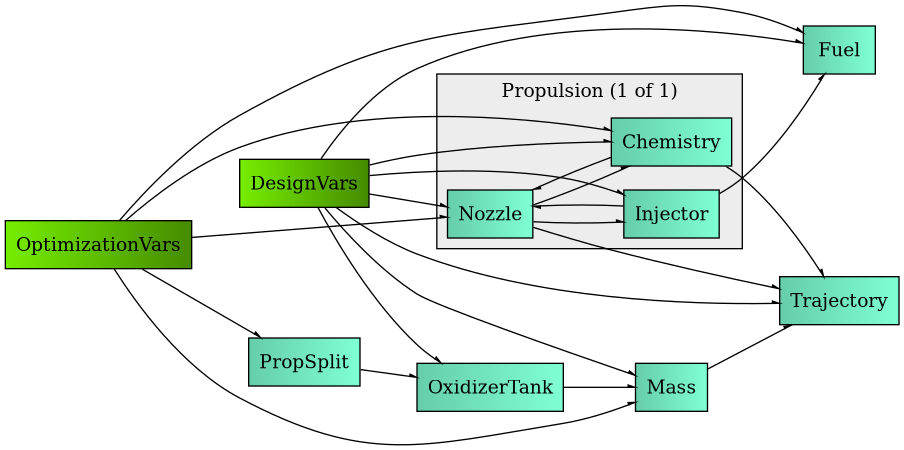
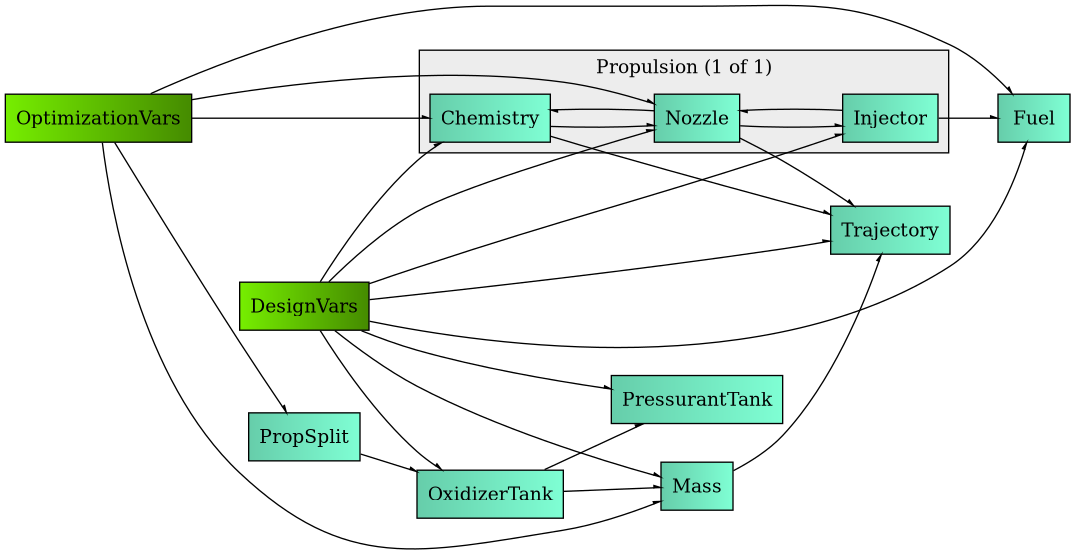
Early version of pressurant tank component

diff --git a/modules/BEARS_Rocket/group_prop.py b/modules/BEARS_Rocket/group_prop.py
@@ -4,12 +4,13 @@ import openmdao.api as om
 from openmdao.api      import Group
 from rocketcea.cea_obj import CEA_Obj
 
-from .comp_split    import PropellantSplitComponent
-from .comp_tank_oxy import OxidizerTankComponent
-from .comp_injector import InjectorComponent
-from .comp_fuel     import FuelComponent
-from .comp_chem     import ChemComponent
-from .comp_nozzle   import NozzleComponent
+from .comp_split      import PropellantSplitComponent
+from .comp_tank_oxy   import OxidizerTankComponent
+from .comp_tank_press import PressurantTankComponent
+from .comp_injector   import InjectorComponent
+from .comp_fuel       import FuelComponent
+from .comp_chem       import ChemComponent
+from .comp_nozzle     import NozzleComponent
 # endregion
 
 class PropulsionGroup(Group):
@@ -37,15 +38,35 @@ class PropulsionGroup(Group):
 		)
 
 		self.add_subsystem(
+			"PressurantTank",
+			PressurantTankComponent(),
+			promotes_inputs=[
+				("p_tank_max",    "press_pressure"),
+				("diam_out",      "press_diam"),
+				("sigma_y",       "press_yield_factor"),
+				("safety_factor", "press_safety_factor"),
+				("rho_wall",      "press_wall_density"),
+			],
+			promotes_outputs=[
+				("m_tank_dry", "press_dry_mass"),
+				("l_tank",     "press_length"),
+				("v_internal", "press_volume"),
+				("t_wall",     "press_wall_thickness"),
+				("m_press",    "press_press_mass"),
+				("rho_press",  "press_press_density"),
+			],
+		)
+
+		self.add_subsystem(
 			"OxidizerTank",
 			OxidizerTankComponent(rho_ox=rho_ox),
 			promotes_inputs=[
+				("p_tank_max",    "tank_pressure"),
 				("diam_out",      "tank_diam"),
 				("ullage_frac",   "tank_ullage_frac"),
 				("sigma_y",       "tank_yield_factor"),
 				("safety_factor", "tank_safety_factor"),
 				("rho_wall",      "tank_wall_density"),
-				("p_tank_max",    "tank_pressure"),
 			],
 			promotes_outputs=[
 				("m_tank_dry", "tank_dry_mass"),
@@ -117,6 +138,8 @@ class PropulsionGroup(Group):
 
 		#region Connections
 		self.connect("PropSplit.m_ox",        "OxidizerTank.m_oxy")
+		self.connect("OxidizerTank.v_fluid",  "PressurantTank.v_ox_displace")
+		self.connect("tank_pressure",         "PressurantTank.p_ox")
 		self.connect("prop_chamber_pressure", "Injector.p_chamber")
 		self.connect("prop_chamber_pressure", "Chemistry.chamber_pressure")
 		self.connect("Injector.mdot_ox",      "Fuel.mdot_ox")

diff --git a/modules/BEARS_Rocket/comp_tank_press.py b/modules/BEARS_Rocket/comp_tank_press.py
@@ -1,0 +1,71 @@
+# region Imports
+import numpy as np
+
+from math       import pi
+from .comp_tank import TankComponent
+# endregion
+
+class PressurantTankComponent(TankComponent):
+
+	def initialize(self):
+		self.options.declare("r_gas",    default=296.8,  types=float)
+		self.options.declare("t_gas",    default=293.15, types=float)
+		self.options.declare("z_factor", default=1.0,    types=float)
+
+	def setup(self):
+		# Sizing inputs from the oxidizer system
+		self.add_input("v_ox_displace", val=0.01, units="m**3")
+		self.add_input("p_ox",          val=70e5, units="Pa")
+
+		# Pressure vessel parameters
+		self.add_input("p_tank_max",    val=300e5,  units="Pa")
+		self.add_input("diam_out",      val=0.15,   units="m")
+		self.add_input("safety_factor", val=1.5)
+		self.add_input("sigma_y",       val=276e6,  units="Pa")
+		self.add_input("rho_wall",      val=2700.0, units="kg/m**3")
+
+		# Structural outputs
+		self.add_output("t_wall",       val=0.005,  units="m")
+		self.add_output("l_tank",       val=0.4,    units="m")
+		self.add_output("v_internal",   val=0.004,  units="m**3")
+		self.add_output("v_fluid",      val=0.004,  units="m**3")
+		self.add_output("m_tank_dry",   val=2.5,    units="kg")
+
+		# Thermodynamic outputs
+		self.add_output("m_press",      val=1.2,    units="kg")
+		self.add_output("rho_press",    val=344.0,  units="kg/m**3")
+
+	def get_fluid_density(self, inputs):
+		p_max = inputs["p_tank_max"]
+		r_gas = self.options["r_gas"]
+		t_gas = self.options["t_gas"]
+		z     = self.options["z_factor"]
+		return p_max / (z * r_gas * t_gas)
+
+	def get_fluid_mass(self, inputs):
+		v_displace = inputs["v_ox_displace"]
+		p_ox       = inputs["p_ox"]
+		p_max      = inputs["p_tank_max"]
+
+		r_gas = self.options["r_gas"]
+		t_gas = self.options["t_gas"]
+		z     = self.options["z_factor"]
+
+		# Gas required to displace the oxidizer volume
+		m_displace = (p_ox * v_displace) / (z * r_gas * t_gas)
+
+		# Residual gas correction
+		f_residual = p_ox / p_max
+		m_press = m_displace / (1.0 - f_residual)
+
+		return m_press
+
+	def get_ullage_frac(self, inputs):
+		return 0.0
+
+	def compute(self, inputs, outputs):
+		outputs["m_press"]   = self.get_fluid_mass(inputs)
+		outputs["rho_press"] = self.get_fluid_density(inputs)
+
+		super().compute(inputs, outputs)
+
